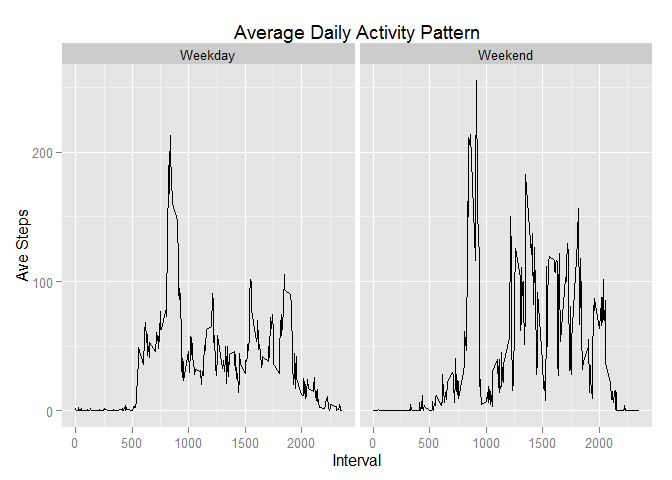
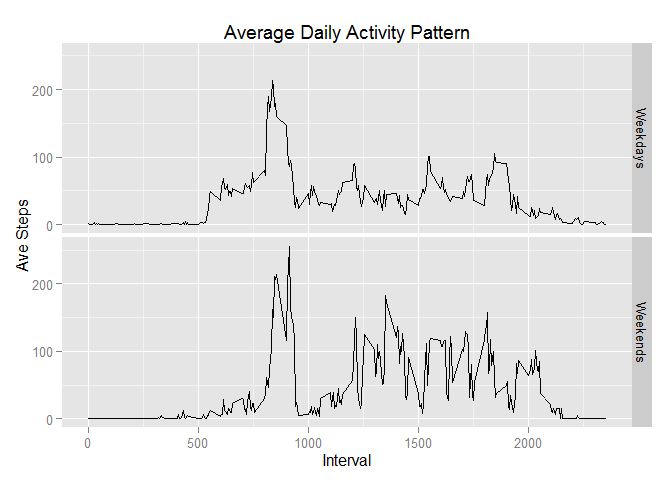
New Changes

diff --git a/PA1_template.html b/PA1_template.html
@@ -140,12 +140,12 @@ median2 &lt;- median(steps_per_day2$total_steps)</code></pre>
 <h2>Are there differences in activity patterns between weekdays and weekends?</h2>
 <p>The next code chunk identifies weekends and weekdays.</p>
 <pre class="r"><code>activity2 &lt;- mutate(activity2, day = weekdays(date))
-activity2 &lt;- mutate(activity2, weekday = ifelse(day == &quot;Saturday&quot; | day == &quot;Saturday&quot;, &quot;Weekend&quot;, &quot;Weekday&quot;))</code></pre>
+activity2 &lt;- mutate(activity2, weekday = ifelse(day == &quot;Saturday&quot; | day == &quot;Saturday&quot;, &quot;Weekends&quot;, &quot;Weekdays&quot;))</code></pre>
 <p>The code chunk below calculates the average daily activity pattern and plots it on a line chart for weekdays and weekends.</p>
 <pre class="r"><code>pattern2 &lt;- summarise(group_by(activity2, interval, weekday), ave_steps=mean(steps))
 
-ggplot(pattern2) + aes(x=interval, y=ave_steps) + geom_line() + labs(title=&quot;Average Daily Activity Pattern&quot;, x = &quot;Interval&quot;, y = &quot;Ave Steps&quot;) + facet_grid(. ~ weekday)</code></pre>
[1 lines of base64/hex data omitted]
+ggplot(pattern2) + aes(x=interval, y=ave_steps) + geom_line() + labs(title=&quot;Average Daily Activity Pattern&quot;, x = &quot;Interval&quot;, y = &quot;Ave Steps&quot;) + facet_grid(weekday ~ .)</code></pre>
[1 lines of base64/hex data omitted]
 </div>
 
 

diff --git a/PA1_template.md b/PA1_template.md
@@ -164,7 +164,7 @@ The next code chunk identifies weekends and weekdays.
 
 ```r
 activity2 <- mutate(activity2, day = weekdays(date))
-activity2 <- mutate(activity2, weekday = ifelse(day == "Saturday" | day == "Saturday", "Weekend", "Weekday"))
+activity2 <- mutate(activity2, weekday = ifelse(day == "Saturday" | day == "Saturday", "Weekends", "Weekdays"))
 ```
 
 The code chunk below calculates the average daily activity pattern and plots it on a line chart for weekdays and weekends.
@@ -173,7 +173,7 @@ The code chunk below calculates the average daily activity pattern and plots it 
 ```r
 pattern2 <- summarise(group_by(activity2, interval, weekday), ave_steps=mean(steps))
 
-ggplot(pattern2) + aes(x=interval, y=ave_steps) + geom_line() + labs(title="Average Daily Activity Pattern", x = "Interval", y = "Ave Steps") + facet_grid(. ~ weekday)
+ggplot(pattern2) + aes(x=interval, y=ave_steps) + geom_line() + labs(title="Average Daily Activity Pattern", x = "Interval", y = "Ave Steps") + facet_grid(weekday ~ .)
 ```
 
 ![](./PA1_template_files/figure-html/unnamed-chunk-12-1.png) 
